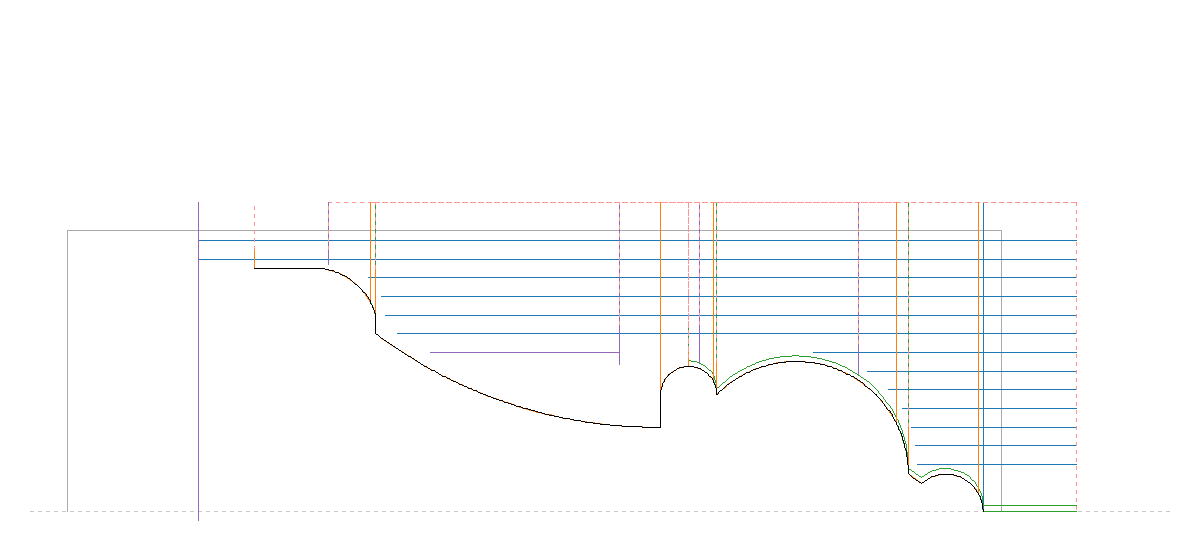
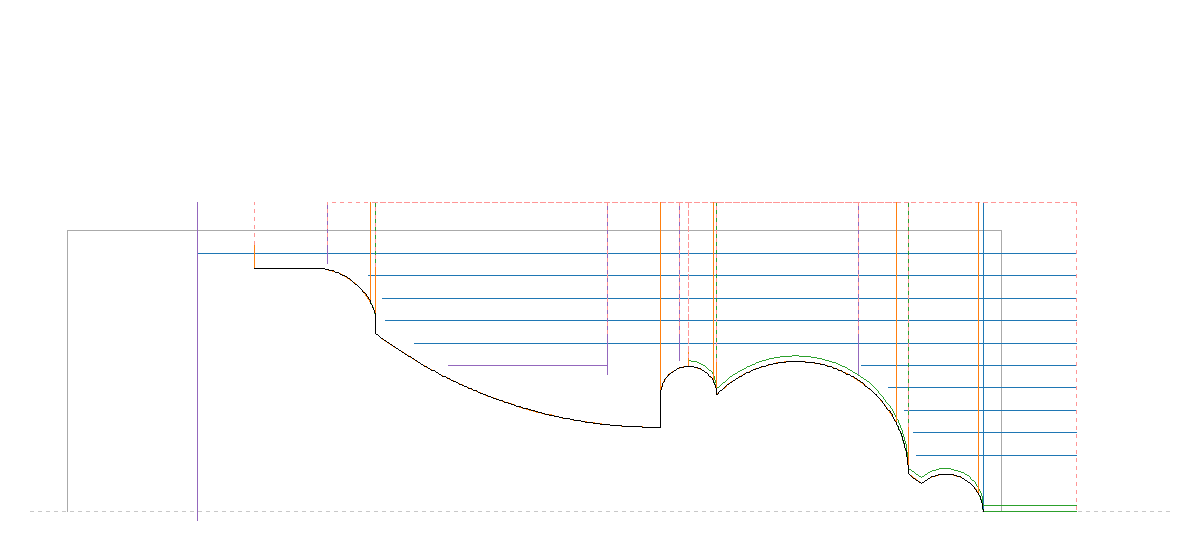
vaultCNC: pasadas y cuchilla T0505 según el catálogo Kennametal
- G90 de 2,4 mm en diámetro (RP pide 1,1-6,4 por lado), sobremetal de desbaste 0,6
- T0505: ancho 3,05 y radio 0,2 (A4G0305M03U02GMN)
- informe: aclaración de profundidades de pasada

Changed region(s): [[0.1542, 0.425, 0.8942, 0.6375], [0.6783, 0.6071, 0.8942, 0.6982], [0.7708, 0.7286, 0.8942, 0.8196]]

diff --git a/vaultCNC/herramientas/generar_winunisoft.py b/vaultCNC/herramientas/generar_winunisoft.py
@@ -26,12 +26,12 @@ import sys
 import zlib
 
 DZ = 0.05            # paso del mapa de material (mm)
-PASO_G90 = 2.0       # profundidad maxima por pasada en diametro (mm)
-SOBRE_DESB = 0.5     # sobremetal radial que deja el desbaste (mm)
+PASO_G90 = 2.4       # pasada en diametro (mm): 1,2 por lado. CNMG-RP pide 1,1-6,4 mm por lado (A7)
+SOBRE_DESB = 0.6     # sobremetal radial que deja el desbaste (mm): la T0303 corta 0,3 (FP pide 0,3-2,5, A7)
 SOBRE_SEMI = 0.6     # sobremetal en diametro que deja el semiacabado (mm)
 MARGEN_Z = 0.5       # el desbaste frena antes de las paredes (mm)
 UMBRAL_VALLE = 1.6   # sobremetal radial a partir del cual hay un valle que limpiar (mm)
-ANCHO_T5 = 3.0       # ancho de T0505 (canales, zona de base y tronzado)
+ANCHO_T5 = 3.05      # ancho de T0505: A4G0305M03U02GMN mide W 3,05 (A73)
 PASO_T5 = 2.5        # paso de T0505 al limpiar la base (menor que el ancho: solapa)
 # angulo libre del porta respecto de Z. T0303: el prj dice 30 pero los originales bajan 45 grados
 # con ella. T0909 es neutro (DVVNN, acercamiento 72.5): mismo angulo a los dos lados.
@@ -566,7 +566,7 @@ def generar(d, avisos):
         mapa.R[i] = 0.0
     P.g00(z=5.0)
     P.g00(xseg)
-    D = bd - 1.0
+    D = bd - PASO_G90   # la primera pasada ya saca 1,2 por lado
     pasadas = []
     while D > 1.0:
         zl = None
@@ -990,7 +990,10 @@ def herramientas_nuevas(l):
     if l.startswith(b"Tool=T3^"):
         return _campo(l, b"r", b"0.40000")
     if l.startswith(b"Tool=T5^"):
-        return l.replace(b"A4SM^R/L^2016K0317", b"A4SM^R/L^2016K0317^GMN")
+        l = l.replace(b"A4SM^R/L^2016K0317", b"A4SM^R/L^2016K0317^GMN")
+        for k, v in ((b"IC", b"3.05000"), (b"_IC", b"3.05000"), (b"r", b"0.20000")):
+            l = _campo(l, k, v)   # inserto W 3,05 y radio 0,2 (A73)
+        return l
     if l.startswith(b"Tool=T9^"):
         l = re.sub(rb"^Tool=T9\^9:\^\S*", b"Tool=T9^9:^DVVNN^2020K16KC04", l)
         for k, v in ((b"_Descrip", b"DVVNN^2020K16KC04"), (b"Quadrant", b"1"),

diff --git a/vaultCNC/herramientas/informe_tp.py b/vaultCNC/herramientas/informe_tp.py
@@ -304,10 +304,15 @@ def construir(args):
                             + pieza['material'] + ' es un acero aleado. En los TP anteriores se usó el grupo M (acero inoxidable).')], 'left', 200))
     cuerpo.append(para([run('Selección de herramientas: la T0909 es un portaherramientas neutro DVVNN (72,5°) con el mismo inserto '
                             'VNMG160404FP de la T0303; copia el perfil en los dos sentidos, así que reemplaza a las dos herramientas '
-                            'de acabado (derecha e izquierda) y tiene más despeje en cuellos y gargantas. La T0505 (3 mm) ranura y '
+                            'de acabado (derecha e izquierda) y tiene más despeje en cuellos y gargantas. La T0505 (3,05 mm) ranura y '
                             'también tronza: alcanza para piezas de hasta Ø26 y se pierde menos material que con una cuchilla de 6 mm. '
                             'El inserto de ranurado es A4G...GMN, porque la página A70 del catálogo recomienda GMN para acero '
                             '(GMP es para acero inoxidable).')], 'left', 200))
+    cuerpo.append(para([run('Profundidades de pasada (página A7 del catálogo): el desbaste con G90 baja 2,4 mm en diámetro '
+                            '(1,2 mm por lado), dentro del rango de 1,1 a 6,4 mm del rompevirutas RP. El desbaste deja 0,6 mm '
+                            'por lado: la T0303 saca 0,3 mm y la T0909 los 0,3 mm finales, dentro del rango de 0,3 a 2,5 mm del '
+                            'rompevirutas FP. El inserto de ranurado A4G0305M03U02GMN mide 3,05 mm de ancho y tiene radio 0,2 '
+                            '(página A73); el programa usa ese ancho para las ranuras y el tronzado.')], 'left', 200))
     for nom, pg in (('vel_A5_P.png', 'A5'), ('vel_A71_P.png', 'A71')):
         if img(nom):
             cuerpo.append(para([run(f'Velocidad de las herramientas de {"torneado" if pg == "A5" else "ranurado"} ', sz=22),

diff --git a/vaultCNC/TPs/TP 7°1 - Peón, Alfil y Torre.md b/vaultCNC/TPs/TP 7°1 - Peón, Alfil y Torre.md
@@ -28,10 +28,10 @@ Herramientas elegidas para estas piezas (SAE 4140, grupo P), con datos del catá
 
 | Herramienta | Portaherramienta + inserto | Uso | Vc |
 |---|---|---|---|
-| T0101 | DCLN 2020K12KC04 + CNMG120408RP (KU30T) | Desbaste G90, pasadas de 2 mm en diámetro | 150 m/min |
+| T0101 | DCLN 2020K12KC04 + CNMG120408RP (KU30T) | Desbaste G90, pasadas de 2,4 mm en diámetro (1,2 por lado; RP pide 1,1–6,4) | 150 m/min |
 | T0303 | DVJN 2020K16KC04 + VNMG160404FP (KU10T) | Semiterminación del contorno | 200 m/min |
 | T0909 | **DVVNN 2020K16KC04** (neutra, 72,5°, código de forma 8) + VNMG160404FP | Acabado de todo el perfil, en los dos sentidos | 200 m/min |
-| T0505 | A4SM 2016K0317 + **A4G0305M03U02GMN** (KU30T, 3 mm) | Ranurado de gargantas y tronzado en Z = −(largo + 3) | 120 m/min |
+| T0505 | A4SM 2016K0317 + **A4G0305M03U02GMN** (KU30T, 3,05 mm, radio 0,2) | Ranurado de gargantas y tronzado en Z = −(largo + 3) | 120 m/min |
 
 Por qué se cambió respecto de los TP anteriores:
 - La herramienta neutra reemplaza a la pareja T0909/T1010 (mano derecha e izquierda) y tiene más despeje en cuellos y gargantas.
@@ -43,9 +43,15 @@ Validación con `simular_nc.py`: **0 errores** en los tres programas. Los rápid
 > [!note] Tabla de herramientas del `.prj`
 > El generador la escribe directo en el `.prj`; en la pantalla de WinUnisoft no se edita nada.
 > - T1: radio de punta 0,8 (CNMG120408). T3: radio 0,4 (VNMG160404). La plantilla traía 0,2 en las dos.
-> - T5: cuchilla de 3 mm (GMN). T9: neutra DVVNN, `Orient.` y `_Orient.` 72,5, `_CodForma` 8, radio 0,4.
+> - T5: cuchilla de 3,05 mm (GMN), radio 0,2. T9: neutra DVVNN, `Orient.` y `_Orient.` 72,5, `_CodForma` 8, radio 0,4.
 > - Los programas no usan compensación de radio (G41/G42): el radio solo cambia cómo se dibuja la plaquita y cuánto material deja en los rincones.
 > - T2, T4, T6, T7, T8, T10 y T11 vienen de la plantilla y no se usan.
+
+## Pasadas según el catálogo (página A7)
+- **Desbaste (T0101, rompevirutas RP):** pasadas de 1,1 a 6,4 mm por lado. El G90 baja 2,4 mm en diámetro desde la primera pasada (Ø27,6), o sea 1,2 por lado.
+- **Semiacabado y acabado (rompevirutas FP):** pasadas de 0,3 a 2,5 mm. El desbaste deja 0,6 mm por lado: la T0303 saca 0,3 y la T0909 los 0,3 finales.
+- **Ranurado:** el inserto mide 3,05 mm, y el programa usa ese ancho para las ranuras y el tronzado.
+- **Mango de la T0505:** el A4SM 2016K0317 es de 20×16. Existe el 2020K0317, de 20×20 (ver la transcripción del catálogo, solo local).
 
 ## Archivos
 - Proyectos WinUnisoft: `WinUnisoft/TP71 PEON/`, `TP71 ALFIL/` y `TP71 TORRE/`.

diff --git a/vaultCNC/Bitácora.md b/vaultCNC/Bitácora.md
@@ -123,3 +123,10 @@ El orquestador bajó del Drive los .zip de WinUnisoft, confirmó que son texto p
   - El portaherramientas A4SM 2016K0317 tiene mango de 20×16. Existe el 2020K0317, de 20×20.
 
   Todavía no se cambió nada en el programa.
+
+## 2026-11-25: pasadas y cuchilla según el catálogo
+- **Desbaste:** el G90 pasó a 2,4 mm en diámetro (1,2 por lado) desde la primera pasada. Antes arrancaba en Ø29, o sea 0,5 por lado, y RP pide de 1,1 a 6,4 mm.
+- **Sobremetal:** el desbaste deja 0,6 mm por lado. La T0303 corta 0,3 y la T0909 0,3, ambas dentro del rango de 0,3 a 2,5 mm de FP.
+- **T0505:** el ancho pasó a 3,05 mm, con radio 0,2 en el `.prj` (A73).
+- **Simulación en la pantalla oculta:** los 3 programas llegan a M30 sin colisiones. Los tiempos bajaron: Peón 25:35, Alfil 29:32 y Torre 18:23.
+- **Informes:** se regeneraron con una aclaración sobre las profundidades de pasada y se subieron a Drive como Google Docs nuevos. Los anteriores quedaron renombrados "(versión anterior)".
